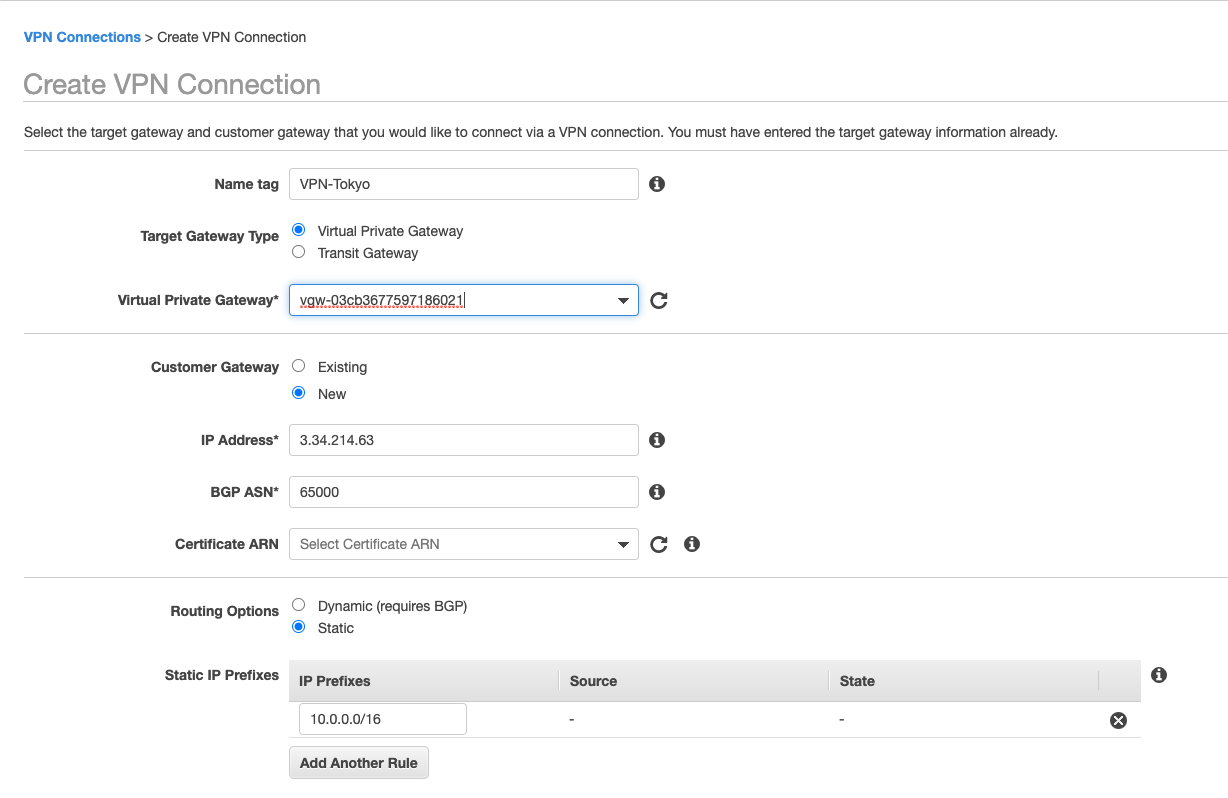
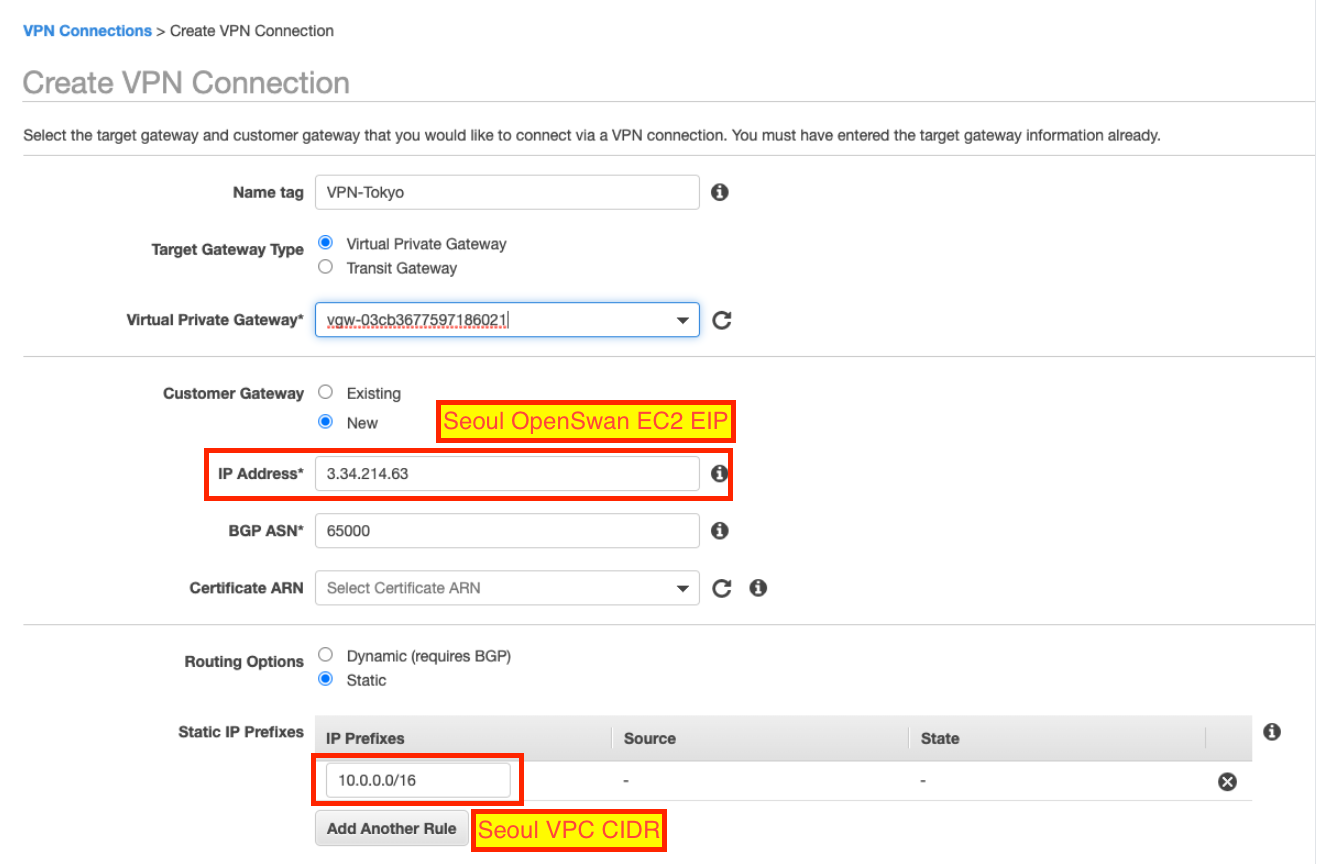
commit

diff --git a/AWS-OCI-VPN/AWS-OCI-VPN-OpenSwan.md b/AWS-OCI-VPN/AWS-OCI-VPN-OpenSwan.md
@@ -62,7 +62,7 @@ conn tunnel_oci_aws
 #Openswan_EIP Remote_Tunnel-IP: PSK "Pre-Shared Key"
 ```
 
-## Create Virtual Private Gateway
+## Create Virtual Private Gateway in AWS Tokyo Region
 
 <kbd> ![GitHub Logo](AWS-OCI-VPN-OpenSwan-images/1.png) </kbd>
 
@@ -70,7 +70,7 @@ conn tunnel_oci_aws
 
 <kbd> ![GitHub Logo](AWS-OCI-VPN-OpenSwan-images/3.png) </kbd>
 
-*OCI OpenSwan EIP Check*
+*OCI OpenSwan EIP Check 132.145.95.50*
 
 <kbd> ![GitHub Logo](AWS-OCI-VPN-OpenSwan-images/4.png) </kbd>
 

diff --git a/IPSEC/OpenSwan-IPSEC.md b/IPSEC/OpenSwan-IPSEC.md
@@ -130,6 +130,8 @@ VPC => Site-to-Site VPN Connections
 
 <kbd> ![GitHub Logo](OpenSwan-IPSEC-images/6.png) </kbd>
 
+*IP Address : Seoul OpenSwan EC2 EIP*
+
 <kbd> ![GitHub Logo](OpenSwan-IPSEC-images/7.png) </kbd>
 
 "Create VPN Connection" Click
